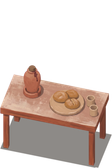
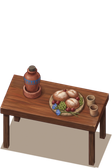
art: junior offering table
Claude-Session: https://claude.ai/code/session_01F6g2diRzQCzQwEf9zsEEGH

diff --git a/docs/instructions/repaint-queue.md b/docs/instructions/repaint-queue.md
@@ -483,7 +483,7 @@ Even lighting left to right, no hotspot, no vignette.
 
 ---
 
-## Nobleman — thirty
+## Nobleman — twenty-nine
 
 The nobleman's existing props, repainted for the rank's new light orange floor. Each is its own thing
 first: cedar is cedar, linen is linen, pottery is pottery, painted in red ochre, Egyptian blue and leaf
@@ -506,39 +506,6 @@ The last nine are the house's own kinds, new with its activities ([themed-rooms.
 § Junior): each has a primitive of its own in `renderProp.py` and a guarded block in `art/rebuild.sh`. The
 banquet table and the bed are two cells across, so their frame is landscape three by two; the harp and the
 potted tree stand a cell taller, so theirs is portrait two by five.
-
-### `junior/offeringTable` — a laid table with bread, fruit and lotus
-
-**Re-roll:** the rank's palette moved (2026-11-03, `Topology/Palette moodboard`). Repainted against the new light orange floor, in its own material's colours; copper only as a trim.
-
-**Attach:**
-
-1. `~/tile-previews/offeringTable-junior.png` — the scaffold
-2. `~/tile-previews/junior-plain.png` — the material reference
-
-```
-A wall-less product shot of a single object, painted in flat matte gouache, no background, on pure magenta #FF00FF. Portrait, two units wide by three tall, exactly as the reference. Do not re-compose it into a square. Paint over the reference image itself.
-
-The object: a LAID TABLE. The top and the legs are the TABLE; the domed shapes on it are LOAVES; the
-round shapes are FRUIT; the tall stoppered vessel standing in a ring is a WINE JAR.
-
-The table is dark oiled CEDAR #6b4226, #7a4a2a on its top faces and #4a2c1a in shade. The loaves are
-baked brown #9a5a30, floury only on top; the fruit dark red figs #6a2a2a and green grapes #4a6a3a, a few
-blue LOTUS flowers #2a5a9a laid across them. The jar is red-brown pottery #8c4a36 with a painted band of
-Egyptian blue and a dark mud stopper #5a5048.
-
-Keep every edge, every proportion and every silhouette exactly as in the reference image — do not move, resize, straighten, add, remove or restyle any part of it, and do not change the angle it stands at. Paint only material and wear.
-
-No highlights, no gloss, no rim light, no ground plane, no reflections. Matte throughout, evenly lit, crisp and clean. Nobleman's house: orange sandstone, painted plaster, cedar, linen, reed and pottery, each in its OWN colours so it reads at a glance as what it is. Copper is an accent only — a rim, a band, a hasp, gone verdigris green at the edges — never a tint over the whole object.
-```
-
-Then, once the return is in `~/Downloads`:
-
-```sh
-scaffold market --contents=laid --spin=-16 --colour=#6b4226 --floor=#e2a86f
-yarn import-tile art/masters/props/junior/offeringTable.webp --tier=junior --name=offeringTable --slot=prop \
-  --filter=smooth --mask="$OBJ" --seat="$SHADOW"
-```
 
 ### `junior/lamp` — a cedar lamp stand
 
